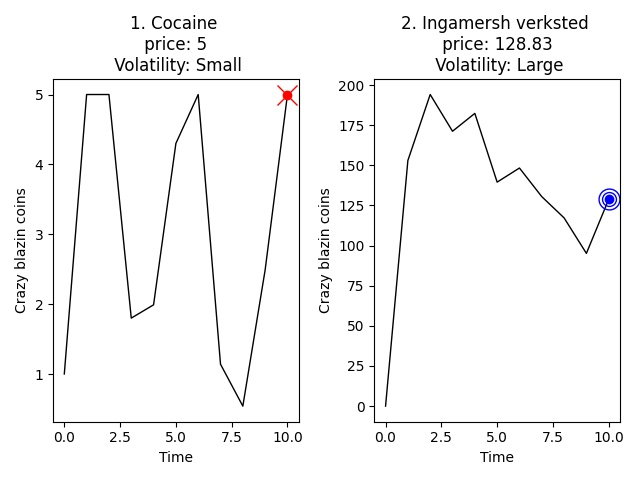
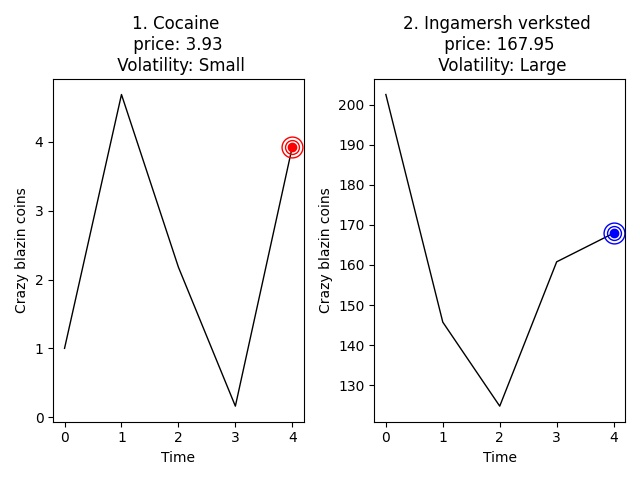
.

diff --git a/economy_bot/dev/cbm_dev.py b/economy_bot/dev/cbm_dev.py
@@ -26,6 +26,7 @@ import io
 
 
 
+
 shop_items = {'Snake gun': [10, 100, 1, ':snake:'], 
                 'Revolver': [24, 200, 2, ':gun:'], 
                 'Acid dispenser': [38, 300, 3, ':leafy_green:'], 
@@ -183,7 +184,7 @@ class Stonks:
 
 
 cocaine = Stonks(name = 'Cocaine', init_price = 1, drift = 0, mean = 3, variance = 2, include_order = False)
-Ingamersh = Stonks(name = 'Ingamersh verksted', init_price = 128.8, drift = 0.15, variance = 50)
+Ingamersh = Stonks(name = 'Ingamersh verksted', init_price = 202.58, drift = 0.15, variance = 50)
 
 
 class MyClient(discord.Client):
@@ -284,8 +285,8 @@ class MyClient(discord.Client):
             
         print(probability)
         if probability >= 995:
-            channel = client.get_channel(849752403687374899)
-            # channel = client.get_channel(734481490431443068)
+            # channel = client.get_channel(849752403687374899)
+            channel = client.get_channel(734481490431443068)
             events_handler.gullfugl = Gullfugl()
 
             event = []
@@ -327,7 +328,7 @@ class MyClient(discord.Client):
         # channel = client.get_channel(795738540251545620)
         bankrupcy_lock = False
         for key in users:
-            if users[key]['cocaine'] > 0:
+            if users[key]['cocaine'] > 0 or users[key]['ingamersh'] > 0:
                 bankrupcy_lock = True
                 break
             
@@ -337,19 +338,28 @@ class MyClient(discord.Client):
                 for key in users:
                     if stonk.name == 'Ingamersh verksted':
                         users[key]['ingamersh'] = 0
-                        if bankrupcy_lock:
-                            embed = discord.Embed(title=f"Bankrupt!", description=f"We are sorry, but {stonk.name} is bankrupt and everyone lost all their shares!") #,color=Hex code
-                            embed.set_image(url="https://media.giphy.com/media/3oriO5t2QB4IPKgxHi/giphy.gif")
-                            await channel.send(embed=embed)
                     if stonk.name == 'Cocaine':
-                        if bankrupcy_lock:
-                            embed = discord.Embed(title=f"Police raid!", description=f"Police have found every owner of cocaine. Everyone lost their cocaine!") #,color=Hex code
-                            embed.set_image(url="https://media.giphy.com/media/7wouU3i8xWB0I/giphy.gif")
-                            await channel.send(embed=embed)
                         users[key]['cocaine'] = 0
-    
+
+                if bankrupcy_lock:
+                    if stonk.name == 'Ingamersh verksted':
+                        embed = discord.Embed(title=f"Bankrupt!", description=f"We are sorry, but {stonk.name} is bankrupt and everyone lost all their shares!") #,color=Hex code
+                        embed.set_image(url="https://media.giphy.com/media/3oriO5t2QB4IPKgxHi/giphy.gif")
+                        await channel.send(embed=embed)
+                    if stonk.name == 'Cocaine':
+                        busted_gifs = ['https://media2.giphy.com/media/l2SpTqt1GogboNnBm/giphy.gif?cid=ecf05e47brua9wj4cgxm8u0iorb3te6kr4akr33v2dvx61vo&rid=giphy.gif&ct=g',
+                                                        'https://media.giphy.com/media/3oriO5t2QB4IPKgxHi/giphy.gif',
+                                                        'https://media.giphy.com/media/l0HlEVps1ahASNDUY/giphy.gif']
+
+                        embed = discord.Embed(title=f"Busted by police!", description=f"We are sorry, but everyone got busted by police and lost all their cocaine!") #,color=Hex code
+                        embed.set_image(url=f"{np.random.choice(busted_gifs)}")
+                        await channel.send(embed=embed)
+
         Stonks.plot_results()
 
+# embed = discord.Embed(title=f"Bankrupt!", description=f"We are sorry, but {stonk.name} is bankrupt and everyone lost all their shares!") #,color=Hex code
+# embed.set_image(url="https://media.giphy.com/media/3oriO5t2QB4IPKgxHi/giphy.gif")
+# await channel.send(embed=embed)
 
         index = 0
         temp_stats = {}
@@ -711,7 +721,12 @@ async def on_message(message):
 
     if message.content.startswith('!buy stonks'):
         users = events_handler.db.read()
+
         str_split = message.content.split(' ')
+        busted_gifs = ['https://media2.giphy.com/media/l2SpTqt1GogboNnBm/giphy.gif?cid=ecf05e47brua9wj4cgxm8u0iorb3te6kr4akr33v2dvx61vo&rid=giphy.gif&ct=g',
+                                                        'https://media.giphy.com/media/3oriO5t2QB4IPKgxHi/giphy.gif',
+                                                        'https://media.giphy.com/media/l0HlEVps1ahASNDUY/giphy.gif']
+        busted_by_police_chance = np.random.randint(1, 101)
         if len(str_split) > 4 or len(str_split) < 4:
             await message.channel.send(f'Too many or few arguments. Use !buy stonks <index> <amount>')
         else:
@@ -722,9 +737,15 @@ async def on_message(message):
                     price = round(cocaine.current_price*amount,2)
                     if price <= users[message.author.name]['Coins']:
                         price = round(cocaine.current_price*amount,2)
-                        users[message.author.name]['cocaine'] += amount
-                        users[message.author.name]['Coins'] -= price
-                        await message.channel.send(f'{message.author.name} bought {amount} cocaine :salt: for {price} <:CBCcoin:831506214659293214> @ {round(cocaine.current_price,2)} per cocaine.')
+                        if busted_by_police_chance > 99:
+                            embed = discord.Embed(title=f"Busted by police!", description=f"We are sorry, but you got busted by police and lost all the cocaine!") #,color=Hex code
+                            embed.set_image(url=f"{np.random.choice(busted_gifs)}")
+                            await message.channel.send(embed=embed)
+                            users[message.author.name]['Coins'] -= price
+                        else:
+                            users[message.author.name]['cocaine'] += amount
+                            users[message.author.name]['Coins'] -= price
+                            await message.channel.send(f'{message.author.name} bought {amount} cocaine :salt: for {price} <:CBCcoin:831506214659293214> @ {round(cocaine.current_price,2)} per cocaine.')
                     else:
                         await message.channel.send(f'{message.author.name} can not afford this much cocaine!')
                 else:
@@ -754,9 +775,15 @@ async def on_message(message):
             if index == 1:
                 price = round(cocaine.current_price*amount,2)
                 if amount <= users[message.author.name]['cocaine']:
-                    users[message.author.name]['cocaine'] -= amount
-                    users[message.author.name]['Coins'] += price
-                    await message.channel.send(f'{message.author.name} sold {amount} cocaine :salt: for {price} <:CBCcoin:831506214659293214> @ {round(cocaine.current_price,2)} per cocaine.')
+                    if busted_by_police_chance > 99:
+                        embed = discord.Embed(title=f"Busted by police!", description=f"We are sorry, but you got busted by police and lost all the cocaine!") #,color=Hex code
+                        embed.set_image(url=f"{np.random.choice(busted_gifs)}")
+                        users[message.author.name]['cocaine'] -= amount
+                        await message.channel.send(embed=embed)
+                    else:
+                        users[message.author.name]['cocaine'] -= amount
+                        users[message.author.name]['Coins'] += price
+                        await message.channel.send(f'{message.author.name} sold {amount} cocaine :salt: for {price} <:CBCcoin:831506214659293214> @ {round(cocaine.current_price,2)} per cocaine.')
                 else:
                     await message.channel.send(f'{message.author.name} does not own this much cocaine!')
             if index == 2:
